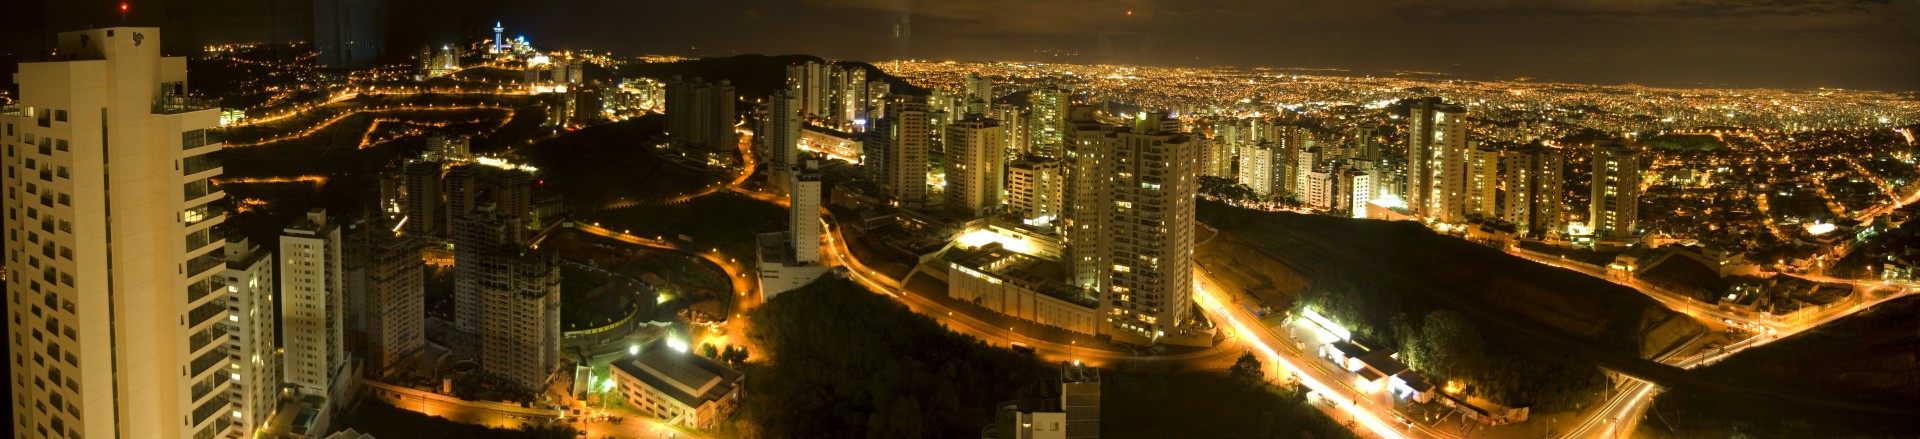
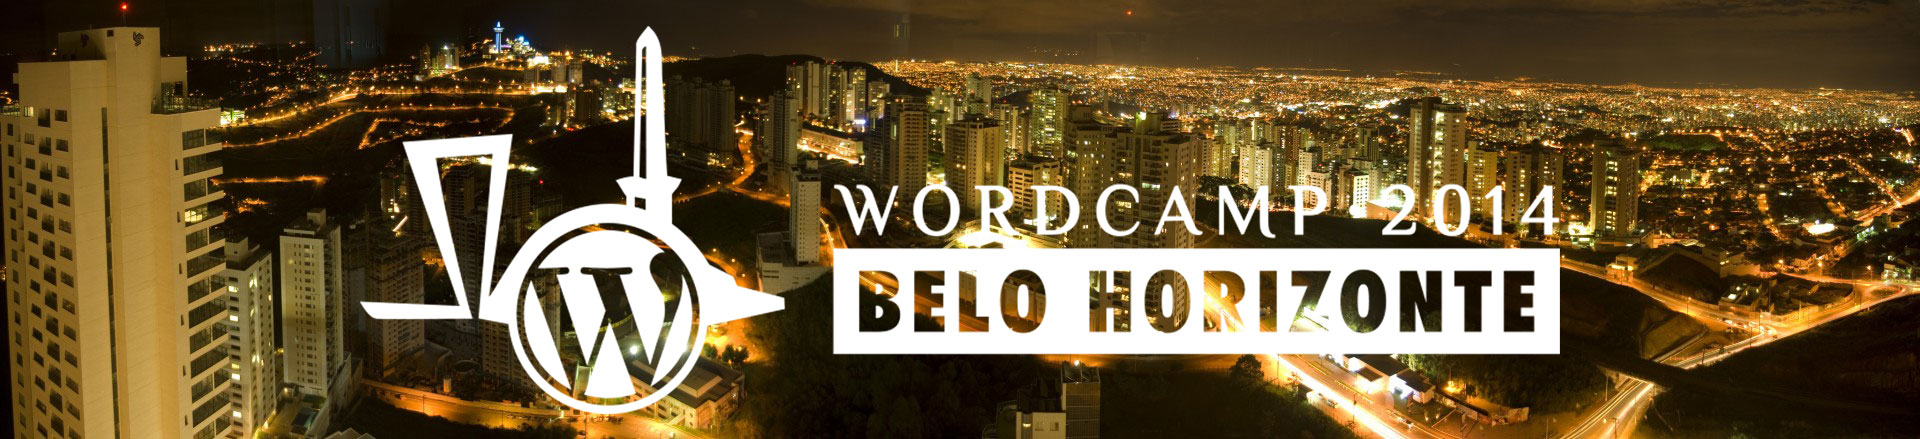
Bugfix #8

Changed region(s): [[0.1875, 0.0592, 0.8125, 0.9476], [0.4375, 0.4146, 0.8125, 0.533]]

diff --git a/style.css b/style.css
@@ -130,7 +130,7 @@ i{
 /**********************************/
 
 #container-belohorizonte{
-    background: url('img/wcbh2014-bg.jpg') no-repeat top left transparent;
+    background: url('img/wcbh2014-bg.jpg') no-repeat top center transparent;
     background-size: cover;
 }
 
@@ -139,8 +139,8 @@ i{
     text-align: center;
 }
 
-#belohorizonte img{
-    margin-top: 30px;
+#belohorizonte a{
+    margin-top: 380px;
 }
 
 /**********************************/
@@ -309,3 +309,5 @@ i{
 #facebook{
 
 }
+
+#belohorizonte { overflow: hidden; }

diff --git a/index.html b/index.html
@@ -280,10 +280,7 @@
 <div class="row">
 </div>
 <div id="container-belohorizonte">
-    <div id="belohorizonte" class="container">
-        <div class="row">
-            <img src="img/wcbh2014-logo.png">
-        </div>
+    <div id="belohorizonte" class="container">        
         <div class="row">
             <a href="http://2014.belohorizonte.wordcamp.org/" class="btn btn-primary btn-lg" target="_blank">Acessar site</a>
         </div>
